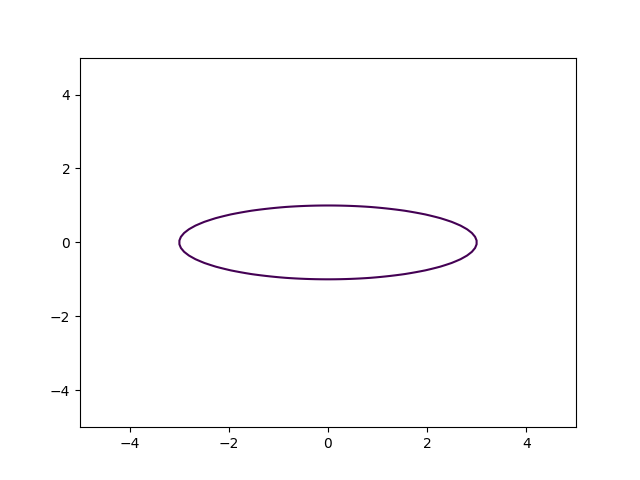
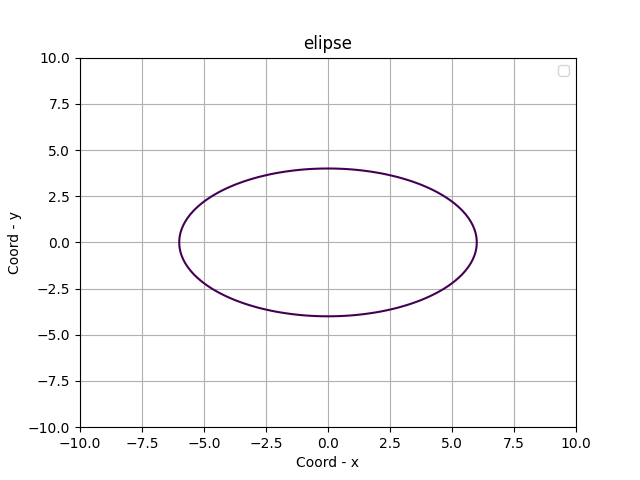
laba6

diff --git a/task_rose_4.py b/task_rose_4.py
@@ -1,0 +1,20 @@
+import matplotlib.pyplot as plt
+import numpy as np
+
+def spiral(k):
+    phi = np.arange(0, 8*(np.pi), 0.1)
+    r = np.sin(k*phi)
+    x = r * np.cos(phi)
+    y = r * np.sin(phi)
+
+    plt.plot(x, y, label="rose")
+    plt.xlabel("Coord - x")
+    plt.ylabel("Coord - y")
+    plt.title("rose")
+    plt.legend()
+    plt.grid()
+    plt.axis('equal')
+    
+    plt.savefig('fig_task4_rose.png')
+
+spiral(float(input("Введите значение k: ")))

diff --git a/task_2.py b/task_2.py
@@ -7,12 +7,12 @@ def hyper(minimum, maximum, N):
     x = np.linspace(0, maximum, N+1)
     x = np.delete(x, 0)
     y = 20/x
-    plt.plot(x, y, color='b', label="my hyperbola")
+    plt.plot(x, y, color='g', label="my hyperbola")
 
     x = np.linspace(minimum, 0, N+1)
     x = np.delete(x, -1)
     y = 20/x
-    plt.plot(x, y, color='b')
+    plt.plot(x, y, color='r')
 
     plt.xlabel("Coord - x")
     plt.ylabel("Coord - y")

diff --git a/task_3.py b/task_3.py
@@ -10,8 +10,13 @@ def ellipse(a, b, minimum,maximum, N):
     X, Y = np.meshgrid(x, y)
 
     fxy = (X**2)/(a**2) + (Y**2)/(b**2) - 1
-
+    
     plt.contour(X, Y, fxy, levels=[0])
+    plt.xlabel("Coord - x")
+    plt.ylabel("Coord - y")
+    plt.title("elipse")
+    plt.legend()
+    plt.grid()
     plt.savefig('fig_task3.png')
 
 ellipse(int(input("Введите значение большой полуоси: ")), 
